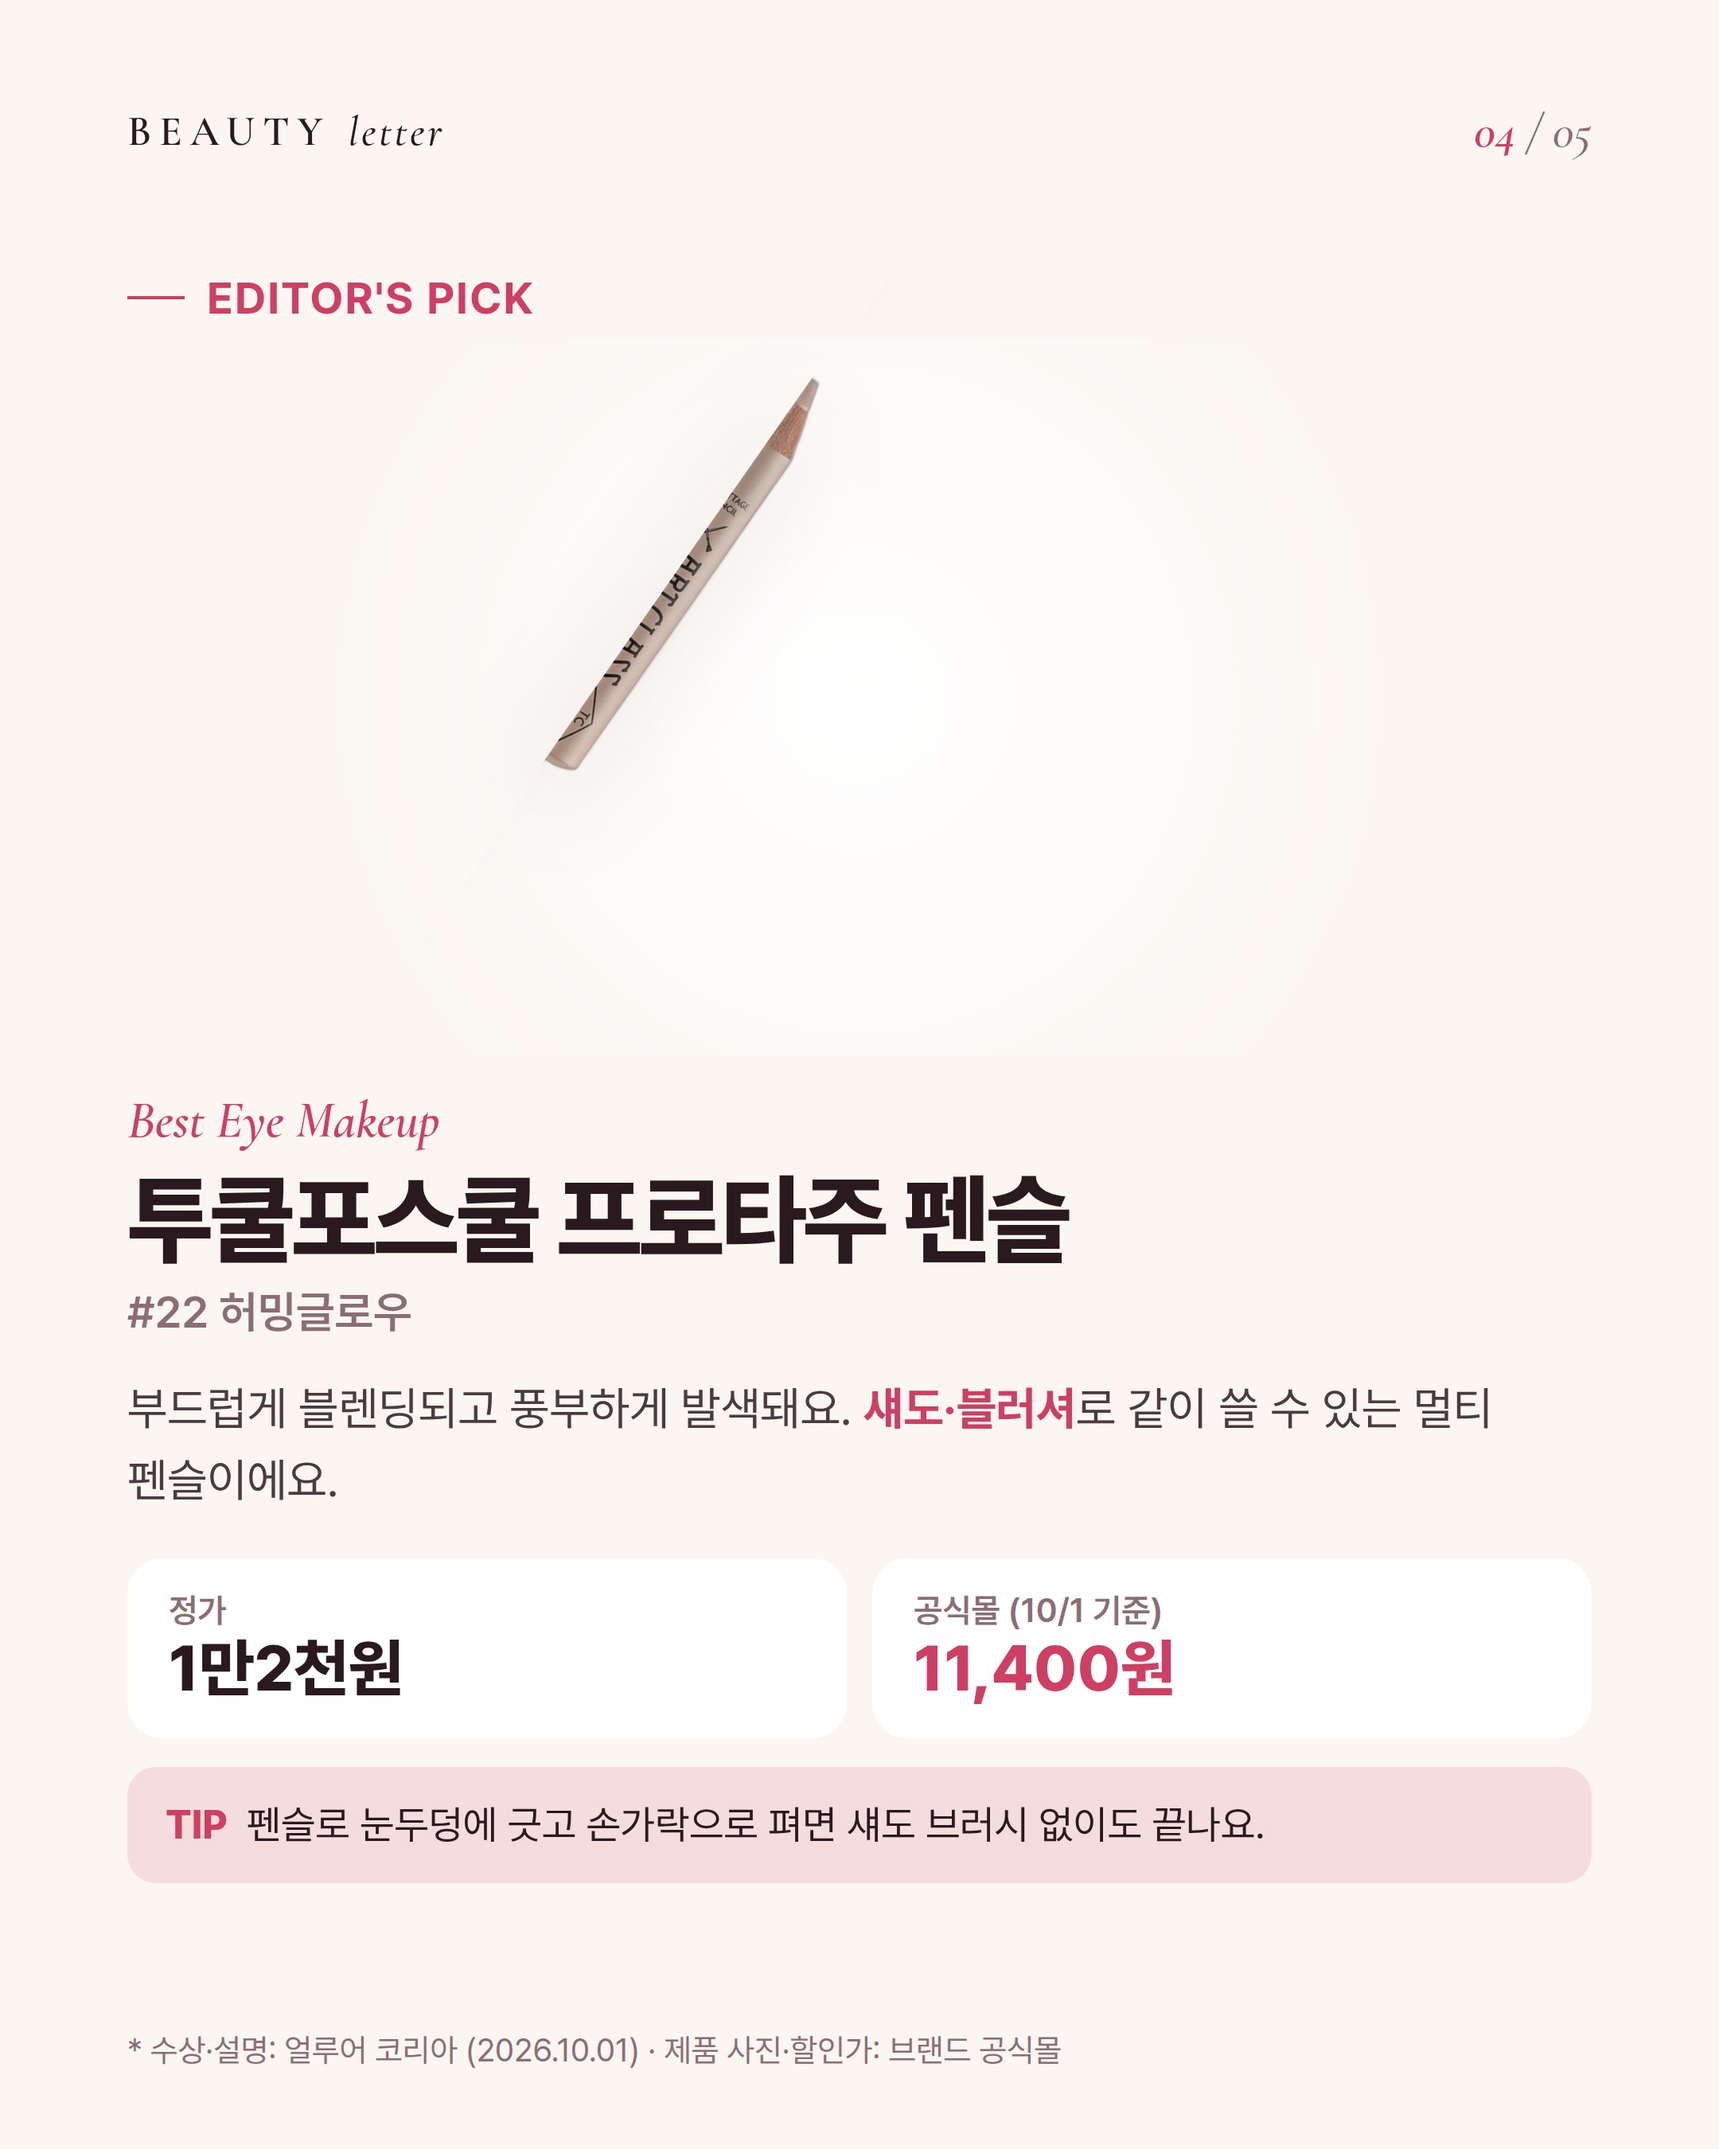
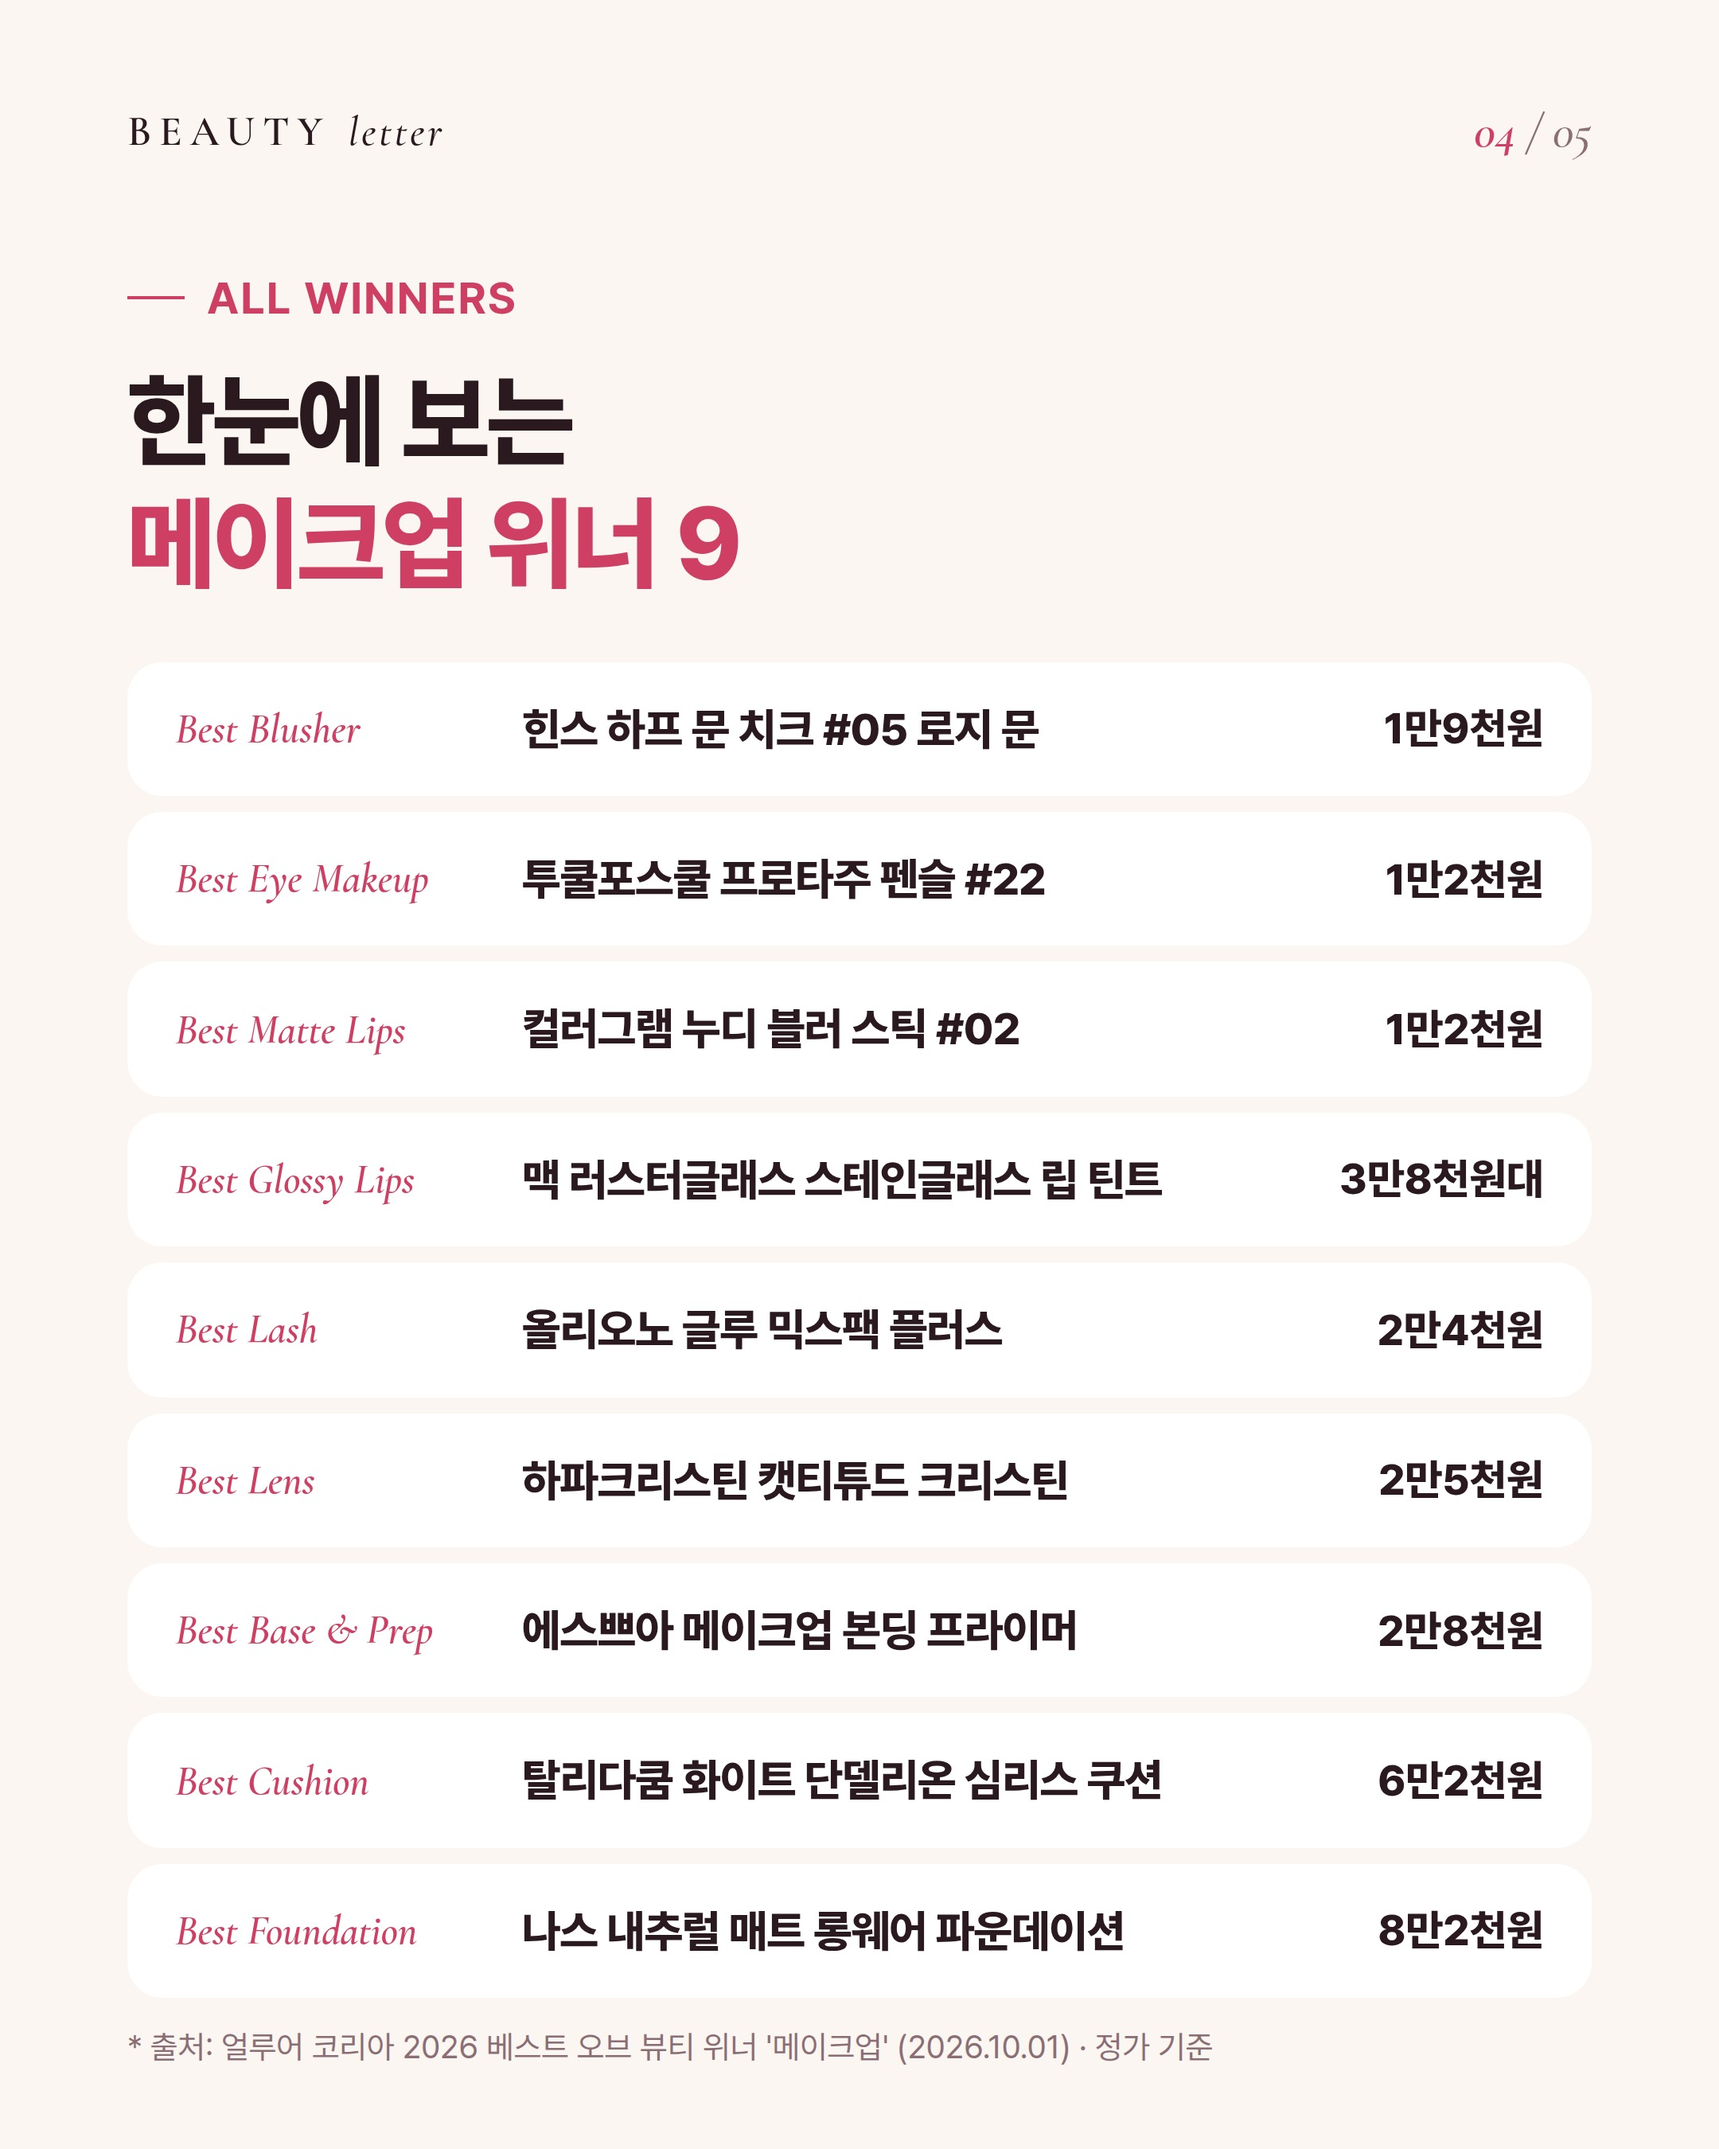
뷰티레터 10/3 오전: 위너 전체 목록 장을 뒤로 이동
Claude-Session: https://claude.ai/code/session_01M29FXMb16fvzM5BCrcufte

diff --git a/design/beauty_news/letters/2026-10-03_am_bob/slides.html b/design/beauty_news/letters/2026-10-03_am_bob/slides.html
@@ -15,7 +15,21 @@
   <div class="glow"></div><img class="cut" src="img/hince_cut.png" alt="" /><div class="topbar"><div class="wordmark">BEAUTY <i>letter</i></div></div>
   <div class="body"><div class="kicker"><span class="cat">New Letter</span><span class="sep">·</span><span>ALLURE BEST OF BEAUTY 2026</span></div><h1>2026 베스트 오브 뷰티,<br/><span class="em">메이크업 위너</span> 다 모았어요</h1><p class="sub">얼루어 코리아가 뽑은 올해의 수상작 9개.<br/>1~2만 원대도 많아요.</p></div>
   </section>
-<section class="card bob2" data-name="02_all"><div class="topbar"><div class="wordmark" style="font-size:26px;letter-spacing:5px">BEAUTY <i>letter</i></div><div class="pageno"><b>02</b> / 05</div></div><div class="kicker">ALL WINNERS</div><h2>한눈에 보는<br/><span class="hl">메이크업 위너 9</span></h2>
+<section class="card feat" data-name="02_hince"><div class="topbar"><div class="wordmark" style="font-size:26px;letter-spacing:5px">BEAUTY <i>letter</i></div><div class="pageno"><b>02</b> / 05</div></div><div class="kicker">EDITOR'S PICK</div>
+<div class="hero"><img src="img/hince_cut.png" alt="" class=""/></div>
+<div class="aw">Best Blusher</div><h2>힌스 하프 문 치크</h2><div class="sh">#05 로지 문</div>
+<p class="ds">크림과 파우더의 장점을 합친 독특한 텍스처. 피부에 부드럽게 밀착된 뒤 <b>보송하게 픽싱</b>된대요.</p>
+<div class="prices"><div><small>정가</small><b>1만9천원</b></div><div class="sale"><small>공식몰 (10/1 기준)</small><b>16,100원</b></div></div>
+<div class="tip"><span>TIP</span>손가락으로 톡톡 두드려 바르면 경계 없이 자연스럽게 퍼져요.</div>
+<div class="foot">* 수상·설명: 얼루어 코리아 (2026.10.01) · 제품 사진·할인가: 브랜드 공식몰</div></section>
+<section class="card feat" data-name="03_pencil"><div class="topbar"><div class="wordmark" style="font-size:26px;letter-spacing:5px">BEAUTY <i>letter</i></div><div class="pageno"><b>03</b> / 05</div></div><div class="kicker">EDITOR'S PICK</div>
+<div class="hero"><img src="img/tcfs_cut.png" alt="" class="slim"/></div>
+<div class="aw">Best Eye Makeup</div><h2>투쿨포스쿨 프로타주 펜슬</h2><div class="sh">#22 허밍글로우</div>
+<p class="ds">부드럽게 블렌딩되고 풍부하게 발색돼요. <b>섀도·블러셔</b>로 같이 쓸 수 있는 멀티 펜슬이에요.</p>
+<div class="prices"><div><small>정가</small><b>1만2천원</b></div><div class="sale"><small>공식몰 (10/1 기준)</small><b>11,400원</b></div></div>
+<div class="tip"><span>TIP</span>펜슬로 눈두덩에 긋고 손가락으로 펴면 섀도 브러시 없이도 끝나요.</div>
+<div class="foot">* 수상·설명: 얼루어 코리아 (2026.10.01) · 제품 사진·할인가: 브랜드 공식몰</div></section>
+<section class="card bob2" data-name="04_all"><div class="topbar"><div class="wordmark" style="font-size:26px;letter-spacing:5px">BEAUTY <i>letter</i></div><div class="pageno"><b>04</b> / 05</div></div><div class="kicker">ALL WINNERS</div><h2>한눈에 보는<br/><span class="hl">메이크업 위너 9</span></h2>
 <div class="list tight">
  <div class="row"><div class="aw">Best Blusher</div><div><b>힌스 하프 문 치크 #05 로지 문</b></div><div class="pr">1만9천원</div></div>
  <div class="row"><div class="aw">Best Eye Makeup</div><div><b>투쿨포스쿨 프로타주 펜슬 #22</b></div><div class="pr">1만2천원</div></div>
@@ -28,20 +42,6 @@
  <div class="row"><div class="aw">Best Foundation</div><div><b>나스 내추럴 매트 롱웨어 파운데이션</b></div><div class="pr">8만2천원</div></div>
 </div>
 <div class="foot">* 출처: 얼루어 코리아 2026 베스트 오브 뷰티 위너 '메이크업' (2026.10.01) · 정가 기준</div></section>
-<section class="card feat" data-name="03_hince"><div class="topbar"><div class="wordmark" style="font-size:26px;letter-spacing:5px">BEAUTY <i>letter</i></div><div class="pageno"><b>03</b> / 05</div></div><div class="kicker">EDITOR'S PICK</div>
-<div class="hero"><img src="img/hince_cut.png" alt="" class=""/></div>
-<div class="aw">Best Blusher</div><h2>힌스 하프 문 치크</h2><div class="sh">#05 로지 문</div>
-<p class="ds">크림과 파우더의 장점을 합친 독특한 텍스처. 피부에 부드럽게 밀착된 뒤 <b>보송하게 픽싱</b>된대요.</p>
-<div class="prices"><div><small>정가</small><b>1만9천원</b></div><div class="sale"><small>공식몰 (10/1 기준)</small><b>16,100원</b></div></div>
-<div class="tip"><span>TIP</span>손가락으로 톡톡 두드려 바르면 경계 없이 자연스럽게 퍼져요.</div>
-<div class="foot">* 수상·설명: 얼루어 코리아 (2026.10.01) · 제품 사진·할인가: 브랜드 공식몰</div></section>
-<section class="card feat" data-name="04_pencil"><div class="topbar"><div class="wordmark" style="font-size:26px;letter-spacing:5px">BEAUTY <i>letter</i></div><div class="pageno"><b>04</b> / 05</div></div><div class="kicker">EDITOR'S PICK</div>
-<div class="hero"><img src="img/tcfs_cut.png" alt="" class="slim"/></div>
-<div class="aw">Best Eye Makeup</div><h2>투쿨포스쿨 프로타주 펜슬</h2><div class="sh">#22 허밍글로우</div>
-<p class="ds">부드럽게 블렌딩되고 풍부하게 발색돼요. <b>섀도·블러셔</b>로 같이 쓸 수 있는 멀티 펜슬이에요.</p>
-<div class="prices"><div><small>정가</small><b>1만2천원</b></div><div class="sale"><small>공식몰 (10/1 기준)</small><b>11,400원</b></div></div>
-<div class="tip"><span>TIP</span>펜슬로 눈두덩에 긋고 손가락으로 펴면 섀도 브러시 없이도 끝나요.</div>
-<div class="foot">* 수상·설명: 얼루어 코리아 (2026.10.01) · 제품 사진·할인가: 브랜드 공식몰</div></section>
 
 <section class="card ps" data-name="05_ps"><div class="bgimg"><img src="img/cover_bg.jpg" alt="" /><img class="cut" src="img/hince_cut.png" alt="" /></div><div class="wordmark">BEAUTY <i>letter</i></div>
   <div class="inner"><div class="ps-mark">P.S.</div><div class="note"><div class="label">에디터의 한 줄 팁</div><p>처음이라면 <b>멀티로 쓰는 아이템</b>부터. 프로타주 펜슬은 섀도·블러셔로,<br/>하프 문 치크는 볼과 눈두덩에 같이 써도 잘 어울려요.</p></div>
